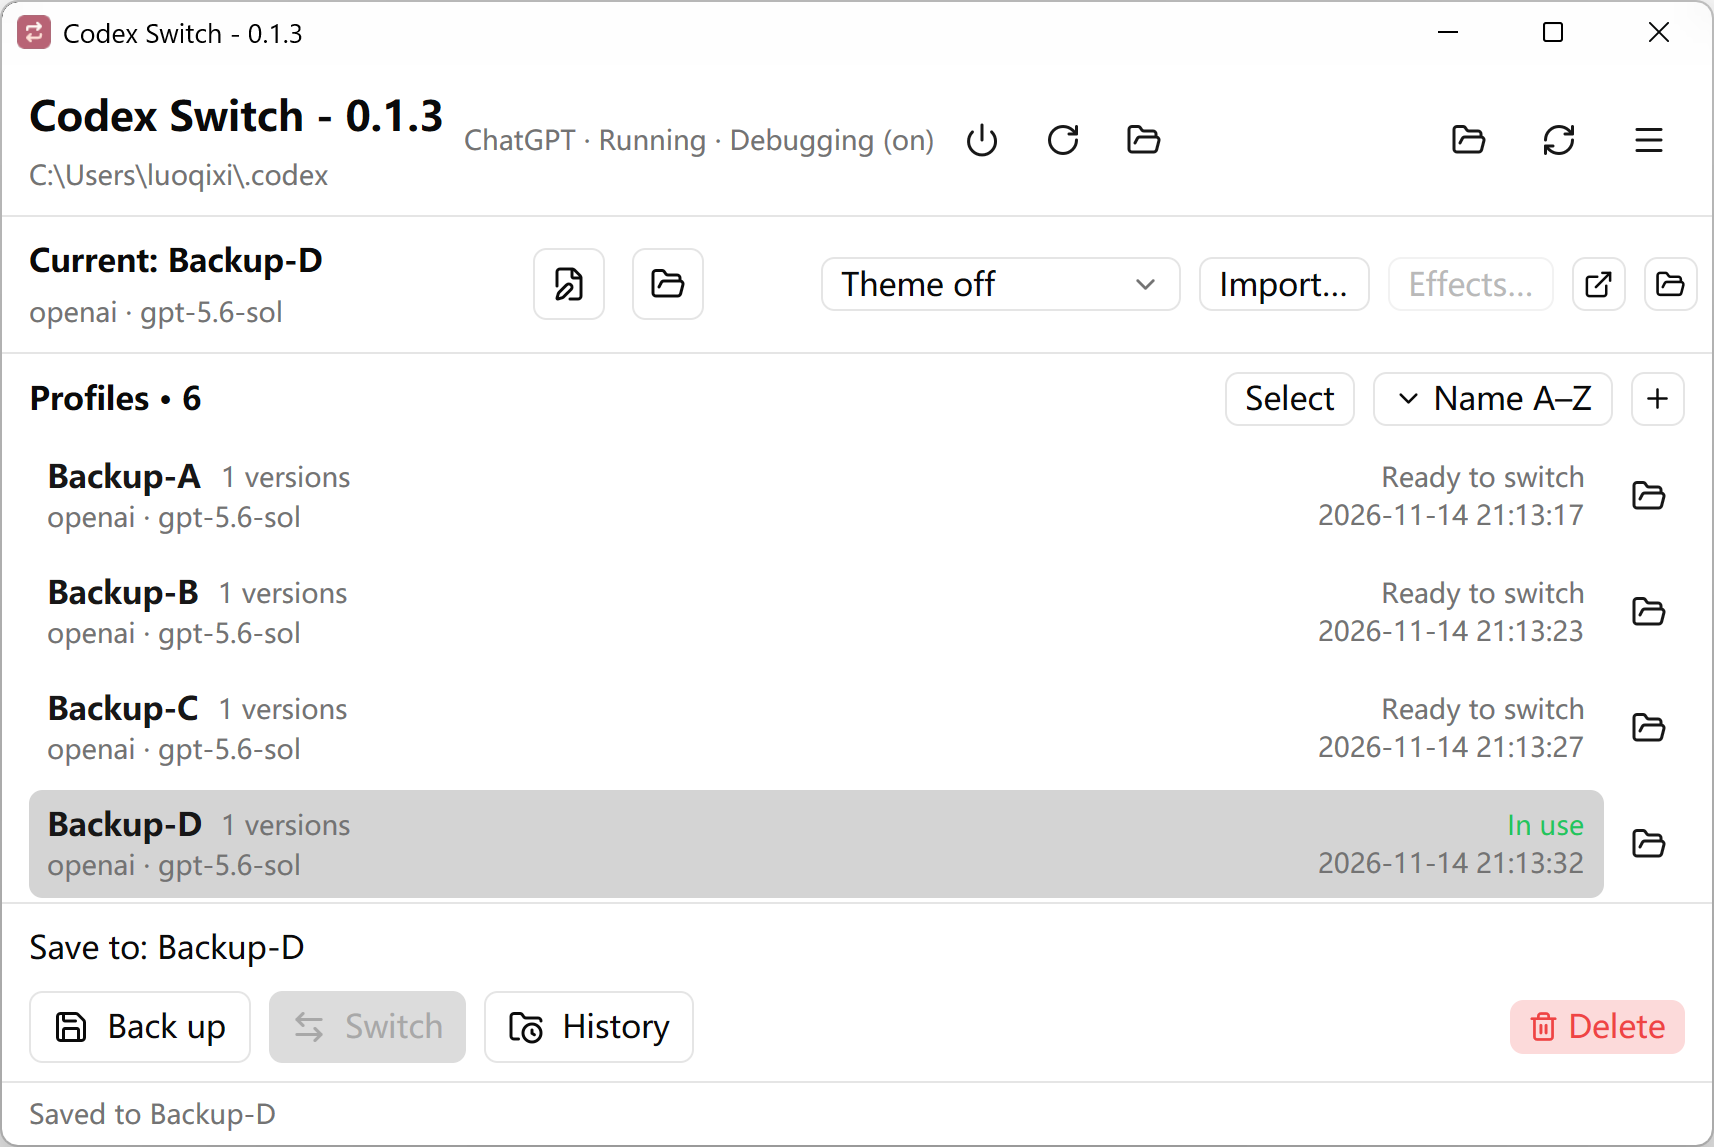
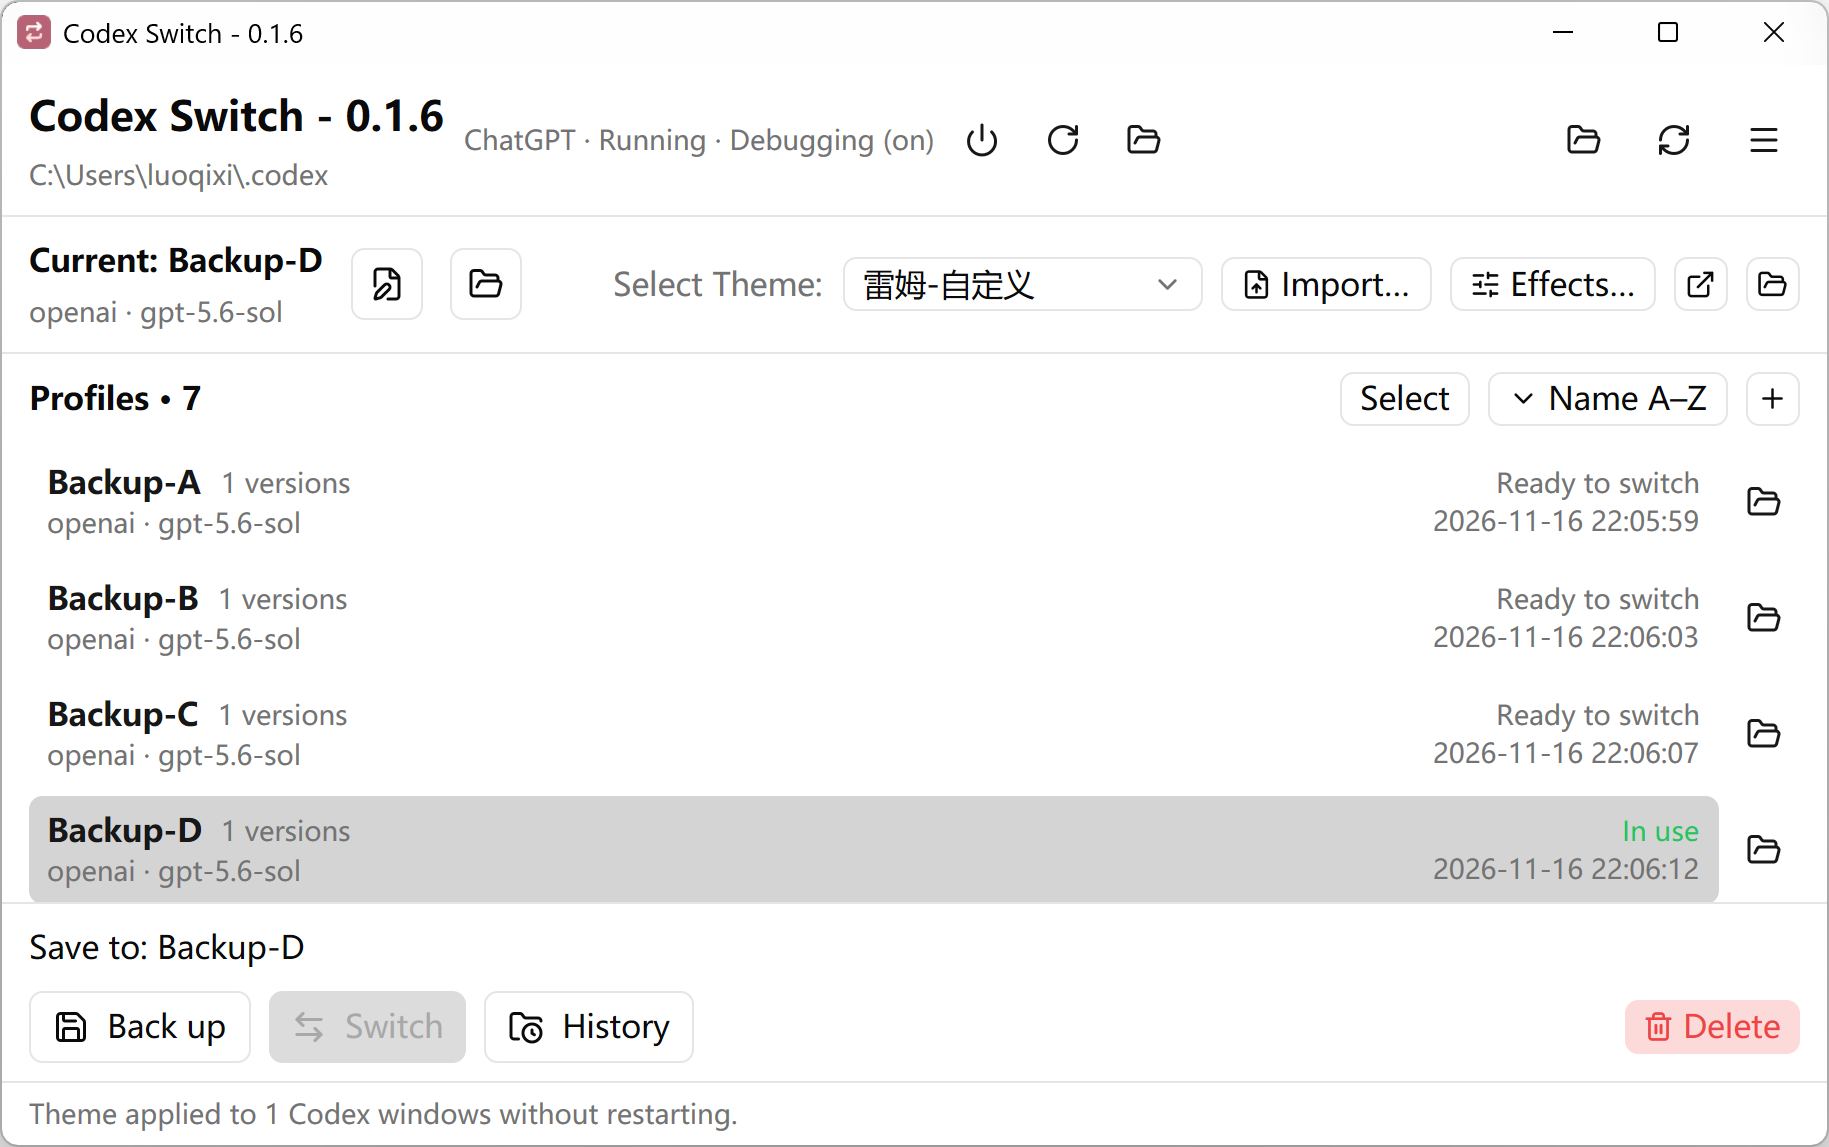
fix: theme.json import, ui optimize

diff --git a/src/themes.rs b/src/themes.rs
@@ -1,5 +1,5 @@
 //! Theme library and the lifetime of the optional, in-process CDP worker.
-//! Import reads the manifest only to locate and name the extracted theme.
+//! Import reads theme metadata to locate and name the extracted theme.
 mod cdp;
 mod identity;
 mod image_import;
@@ -674,35 +674,53 @@ fn extract_zip(path: &Path, root: &Path) -> Result<()> {
         }
         names.push(name);
     }
-    let (prefix, manifest_index) =
-        if let Some(index) = names.iter().position(|n| n == "manifest.json") {
-            (String::new(), index)
-        } else {
-            let prefix = first_directory.context(crate::tr!(
-                "themes.no_manifest_json_was_found_at_the_zip_root"
-            ))?;
+    let metadata = names
+        .iter()
+        .position(|name| name == "manifest.json")
+        .map(|index| (String::new(), index, true))
+        .or_else(|| {
+            names
+                .iter()
+                .position(|name| name == "theme.json")
+                .map(|index| (String::new(), index, false))
+        })
+        .or_else(|| {
+            let prefix = first_directory?;
             let manifest = format!("{prefix}manifest.json");
-            let index = names
+            names
                 .iter()
                 .position(|name| name == &manifest)
-                .context(crate::tr!("themes.no_manifest_json_was_found_in_the_zip_s"))?;
-            (prefix, index)
-        };
-    let manifest: Value = {
-        let mut entry = archive.by_index(manifest_index)?;
+                .map(|index| (prefix.clone(), index, true))
+                .or_else(|| {
+                    let theme = format!("{prefix}theme.json");
+                    names
+                        .iter()
+                        .position(|name| name == &theme)
+                        .map(|index| (prefix, index, false))
+                })
+        })
+        .context(crate::tr!("themes.no_theme_metadata_was_found_in_the_zip"))?;
+    let (prefix, metadata_index, is_manifest) = metadata;
+    let metadata: Value = {
+        let mut entry = archive.by_index(metadata_index)?;
         let mut bytes = Vec::new();
         io::Read::read_to_end(&mut entry, &mut bytes)
-            .context(crate::tr!("themes.could_not_read_manifest_json"))?;
+            .context(crate::tr!("themes.could_not_read_theme_metadata"))?;
         serde_json::from_slice(bytes.strip_prefix(b"\xef\xbb\xbf").unwrap_or(&bytes))
-            .context(crate::tr!("themes.manifest_json_is_not_valid_json"))?
+            .context(crate::tr!("themes.theme_metadata_is_not_valid_json"))?
     };
-    let name = manifest["themeId"]
-        .as_str()
-        .map(str::trim)
-        .filter(|name| !name.is_empty())
-        .context(crate::tr!(
-            "themes.manifest_json_must_contain_a_nonempty_themeid"
-        ))?;
+    let name = if is_manifest {
+        metadata["themeId"].as_str()
+    } else {
+        ["themeId", "id", "name", "displayName", "title"]
+            .into_iter()
+            .find_map(|key| metadata[key].as_str())
+    }
+    .map(str::trim)
+    .filter(|name| !name.is_empty())
+    .context(crate::tr!(
+        "themes.theme_metadata_must_contain_a_nonempty_name_or_id"
+    ))?;
     let folder = theme_folder_name(name)?;
     fs::create_dir_all(root).context(crate::tr!(
         "image_import.could_not_create_the_theme_directory"

diff --git a/src/themes/tests.rs b/src/themes/tests.rs
@@ -249,10 +249,10 @@ fn root_manifest_takes_priority_and_extracts_all_contents_into_theme_id() {
 }
 
 #[test]
-fn importing_requires_manifest_in_root_or_first_visible_directory() {
+fn importing_accepts_theme_json_and_requires_metadata_in_root_or_first_visible_directory() {
     let temp = tempfile::tempdir().unwrap();
     for entries in [
-        vec![("theme.json", b"{}".as_slice())],
+        vec![("readme.txt", b"no metadata".as_slice())],
         vec![
             ("first/readme.txt", b"first".as_slice()),
             (
@@ -275,6 +275,38 @@ fn importing_requires_manifest_in_root_or_first_visible_directory() {
         assert!(extract_zip(&zip, &root).is_err());
         assert!(!root.exists());
     }
+}
+
+#[test]
+fn theme_json_zip_metadata_is_used_when_manifest_is_absent_and_manifest_takes_priority() {
+    let temp = tempfile::tempdir().unwrap();
+    let root = temp.path().join("Themes");
+    let zip = temp.path().join("theme-only.zip");
+    archive(
+        &zip,
+        &[
+            (
+                "package/theme.json",
+                br#"{"id":"theme-from-json","name":"JSON Theme"}"#,
+            ),
+            ("package/assets/background.png", b"image"),
+        ],
+    );
+    extract_zip(&zip, &root).unwrap();
+    assert!(root.join("theme-from-json/theme.json").is_file());
+    assert!(root.join("theme-from-json/assets/background.png").is_file());
+
+    let priority = temp.path().join("priority.zip");
+    archive(
+        &priority,
+        &[
+            ("manifest.json", br#"{"themeId":"manifest-wins"}"#),
+            ("theme.json", br#"{"id":"json-loses"}"#),
+        ],
+    );
+    extract_zip(&priority, &root).unwrap();
+    assert!(root.join("manifest-wins/manifest.json").is_file());
+    assert!(!root.join("json-loses").exists());
 }
 
 #[test]

diff --git a/src/view/theme_controls.rs b/src/view/theme_controls.rs
@@ -326,9 +326,15 @@ impl Switcher {
             .flex()
             .items_center()
             .gap_2()
-            .ml_10()
+            .ml_4()
             .min_w_0()
-            .max_w_96()
+            .mr_0()
+            .child(
+                div()
+                    .text_sm()
+                    .text_color(cx.theme().muted_foreground)
+                    .child(crate::tr!("theme_controls.theme_label")),
+            )
             .child(
                 Select::new(&self.theme_select)
                     .id("theme-select")
@@ -343,6 +349,7 @@ impl Switcher {
                 Button::new("import-theme")
                     .outline()
                     .small()
+                    .icon(IconName::FileUp)
                     .label(crate::tr!("theme_controls.import"))
                     .accessibility_label(crate::tr!("theme_controls.import_theme_zips_or_background_images_multiple_selection_supported"))
                     .tooltip(crate::tr!("theme_controls.import_theme_zips_or_background_images_multiple_files"))
@@ -353,6 +360,7 @@ impl Switcher {
                 Button::new("theme-effects")
                     .outline()
                     .small()
+                    .icon(IconName::SlidersHorizontal)
                     .label(crate::tr!("theme_controls.effects"))
                     .accessibility_label(crate::tr!("theme_controls.theme_effects"))
                     .disabled(disabled || self.themes.selected.is_none())

diff --git a/src/shell.rs b/src/shell.rs
@@ -54,7 +54,7 @@ fn main_options(cx: &App) -> WindowOptions {
     WindowOptions {
         window_bounds: Some(WindowBounds::Windowed(Bounds::centered(
             display_id,
-            size(px(760.), px(480.)),
+            size(px(800.), px(480.)),
             cx,
         ))),
         window_min_size: Some(size(px(640.), px(380.))),
@@ -311,15 +311,18 @@ fn tray_menu(
     }
     menu.append_items(&[
         &show,
-        &switch,
-        &theme_menu,
-        &MenuItem::with_id("settings", crate::tr!("shell.settings"), true, None),
+        &PredefinedMenuItem::separator(),
         &MenuItem::with_id(
             "restart-chatgpt",
             crate::tr!("shell.restart_chatgpt"),
             true,
             None,
         ),
+        &PredefinedMenuItem::separator(),
+        &switch,
+        &theme_menu,
+        &PredefinedMenuItem::separator(),
+        &MenuItem::with_id("settings", crate::tr!("shell.settings"), true, None),
         &PredefinedMenuItem::separator(),
         &MenuItem::with_id("quit", crate::tr!("shell.quit_codex_switch"), true, None),
     ])?;

diff --git a/src/view.rs b/src/view.rs
@@ -998,7 +998,7 @@ impl Render for Switcher {
                                     .flex()
                                     .flex_col()
                                     .min_w_0()
-                                    .flex_1()
+                                    .max_w_56()
                                     .gap_0p5()
                                     .child(div().font_semibold().truncate().child(current))
                                     .child(
@@ -1038,6 +1038,7 @@ impl Render for Switcher {
                                         cx.reveal_path(&path)
                                     })),
                             )
+                            .child(div().flex_1())
                             .child(self.render_theme_controls(cx)),
                     )
                     .children(self.snapshot.warning.clone().map(|warning| {

diff --git a/src/app_assets.rs b/src/app_assets.rs
@@ -3,7 +3,17 @@ use std::borrow::Cow;
 
 assets::icon_assets!(
     ExtraIcons,
-    [FilePen, Power, Save, ArrowLeftRight, FolderClock, Trash, X]
+    [
+        FilePen,
+        FileUp,
+        Power,
+        Save,
+        ArrowLeftRight,
+        FolderClock,
+        SlidersHorizontal,
+        Trash,
+        X
+    ]
 );
 
 pub(crate) struct AppAssets;
